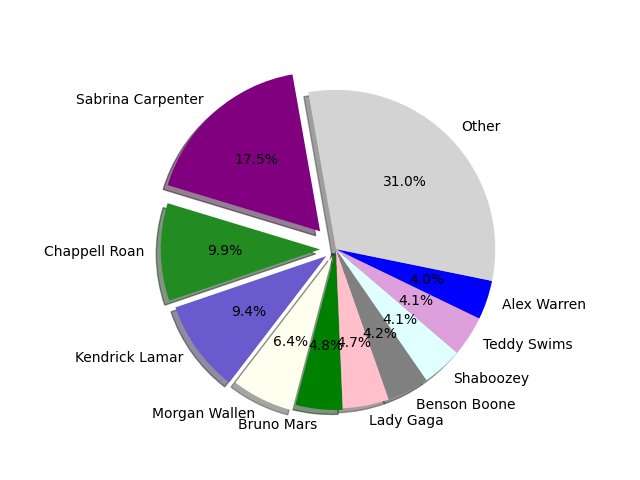
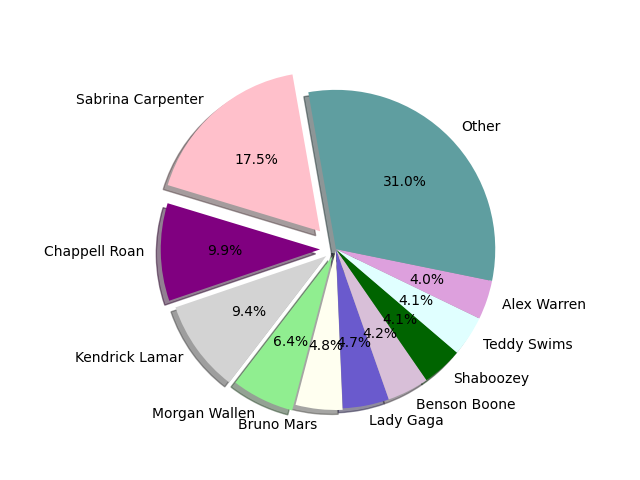
more colors in pie chart?

Changed region(s): [[0.25, 0.1562, 0.7812, 0.875]]

diff --git a/visuals.py b/visuals.py
@@ -209,7 +209,7 @@ def graph_pie_artist_popularity_sum(cur):
     ### make plot
     # create the graph
     fig, ax = plt.subplots()
-    colors = ['purple', 'forestgreen', 'slateblue', 'ivory', 'green', 'pink', 'gray', 'lightcyan', 'plum', 'blue', 'lightgray']
+    colors = ['pink', 'purple', 'lightgray', 'lightgreen', 'ivory', 'slateblue', 'thistle', 'darkgreen', 'lightcyan', 'plum', 'cadetblue']
     explode = (0.15, 0.1, 0.075, 0.05, 0.01, 0, 0, 0, 0, 0, 0)
 
     plt.pie(popularity, explode=explode, labels=artist, colors=colors,
@@ -230,5 +230,5 @@ if __name__ == "__main__":
     # graph_scatter_rank_vs_popularity(cur)
     # graph_scatter_album_release_vs_rank(cur) ## TODO -- complete labeling
     # graph__bar_top_artists_by_song_count(cur)
-    # graph_pie_artist_popularity_sum(cur)
+    graph_pie_artist_popularity_sum(cur)
     conn.close()
